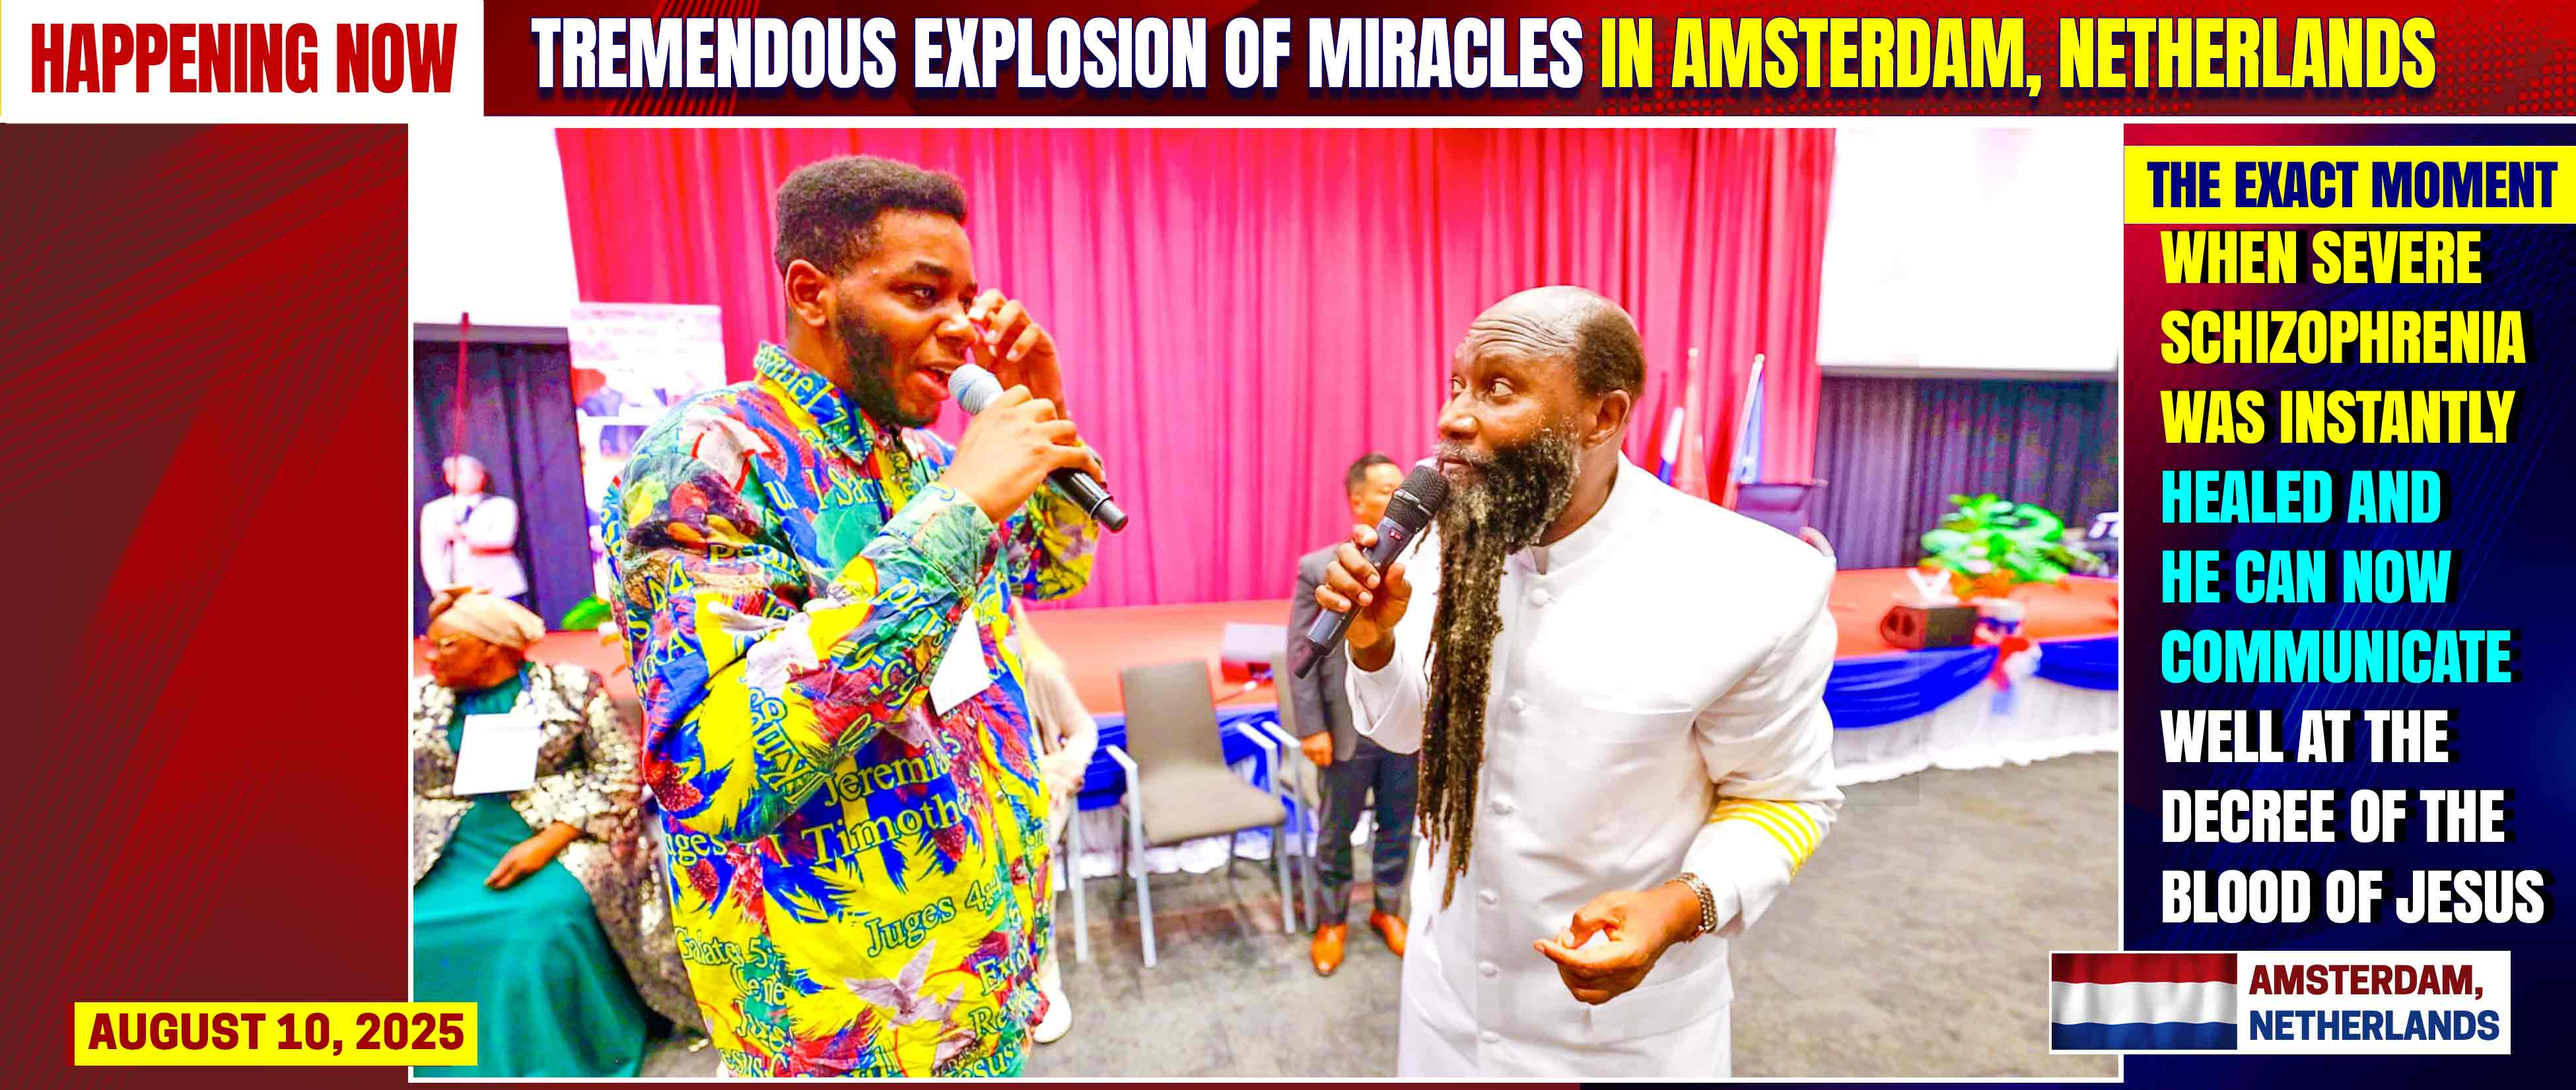
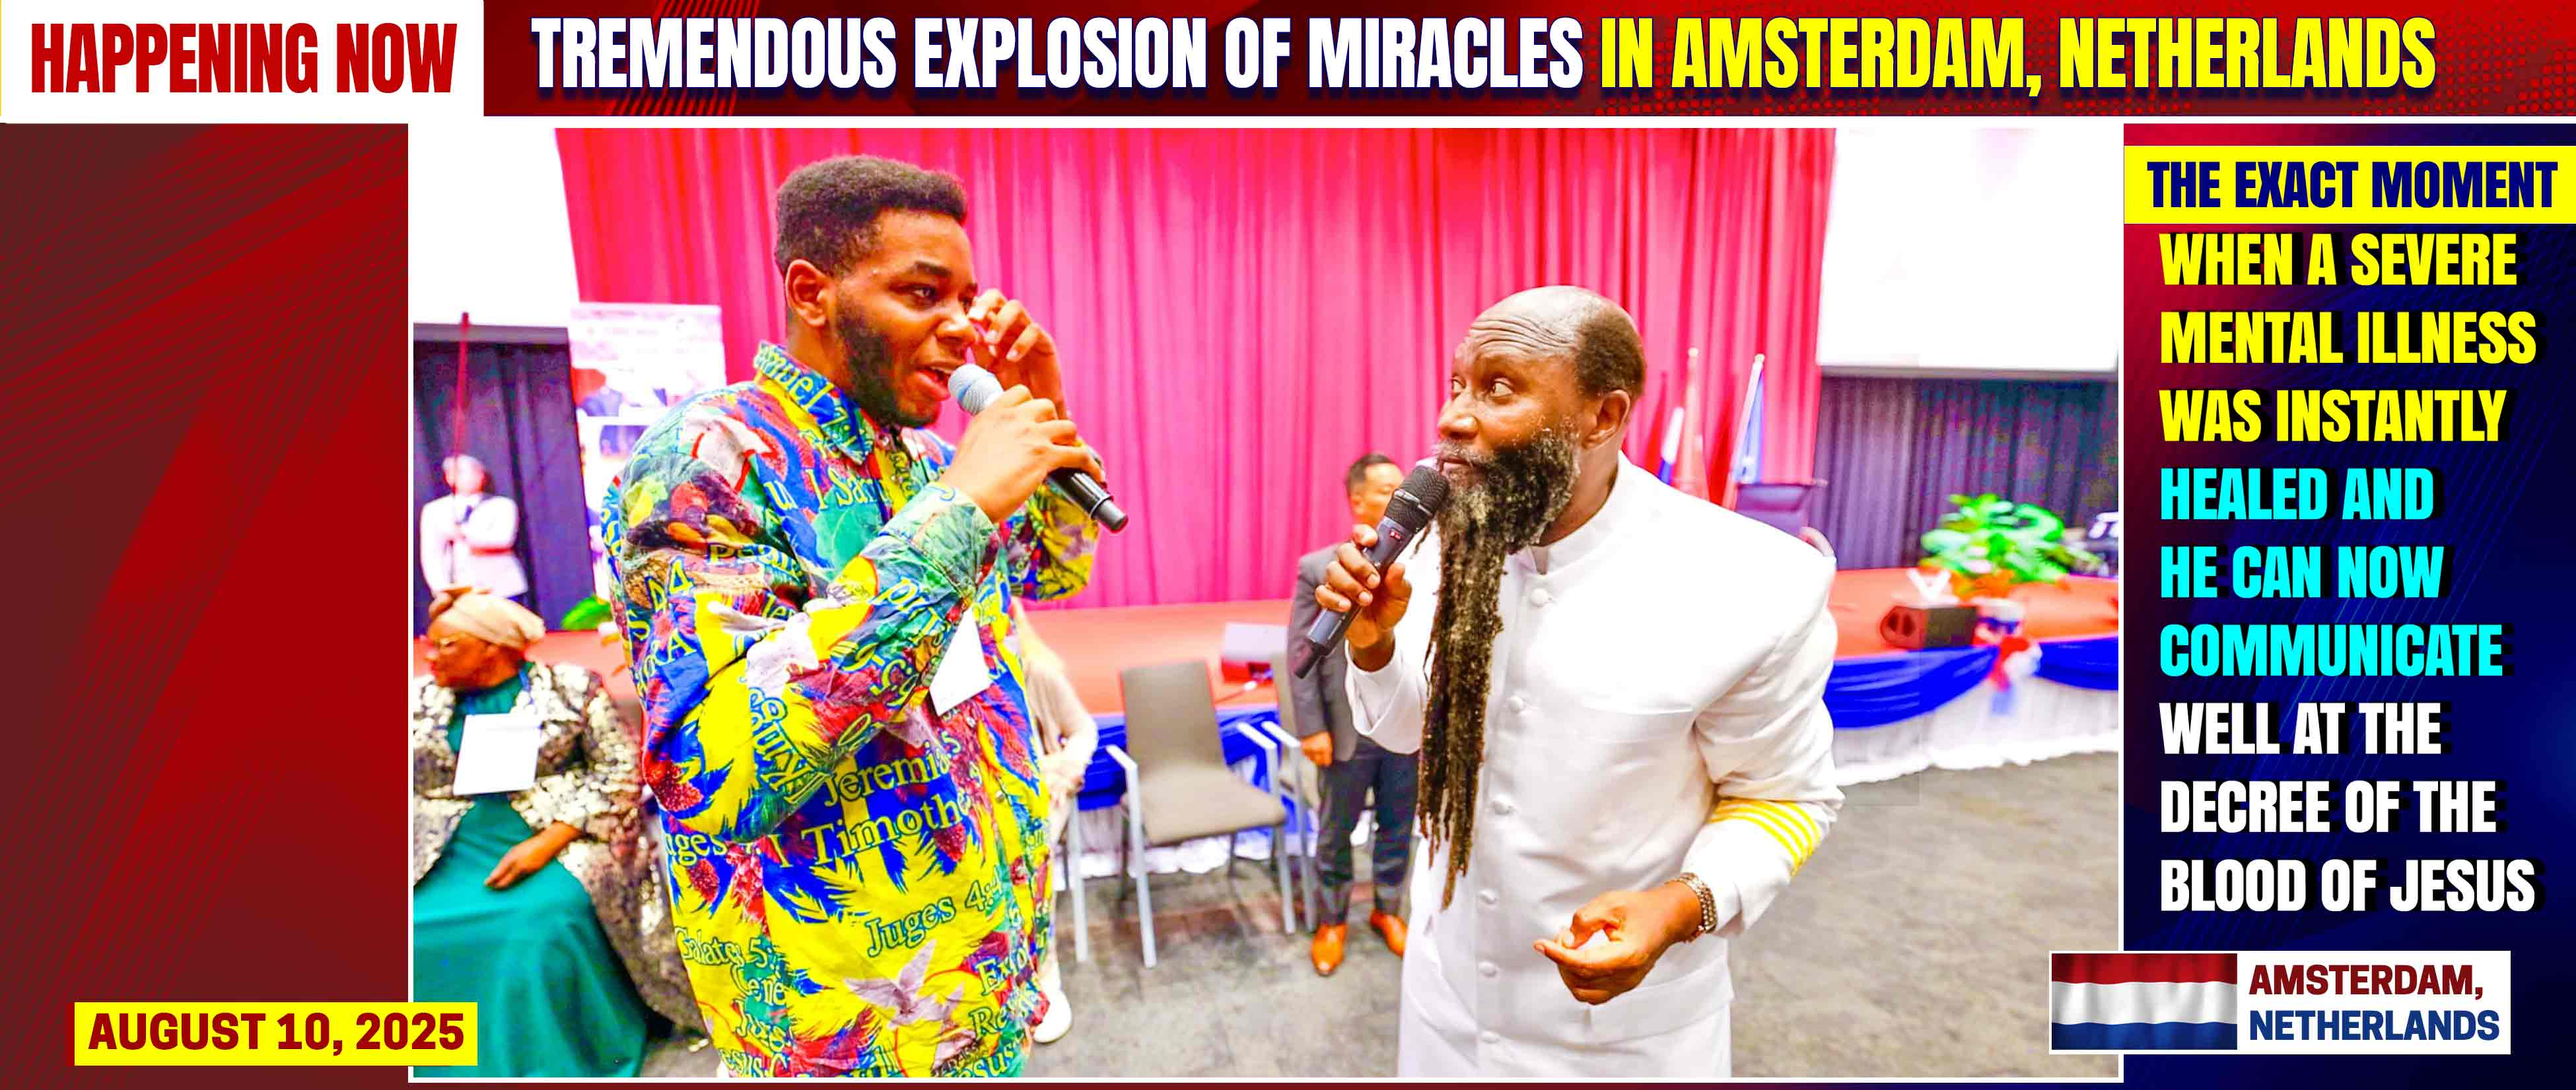
crowds

Changed region(s): [[0.8375, 0.1852, 0.9926, 0.8644], [0.5893, 0.9879, 0.7134, 1.0]]

diff --git a/index.html b/index.html
@@ -32,7 +32,7 @@
         <img class="slideshow" src="https://pub-9f92551086574e82abebdc7b9c83cf92.r2.dev/1.%20Netherlands%20mission/HEALING%20Service%20-%201/deaf-3.jpg" alt="Unstable internet, please refresh the browser">
         <img class="slideshow" src="https://pub-9f92551086574e82abebdc7b9c83cf92.r2.dev/1.%20Netherlands%20mission/HEALING%20Service%20-%201/deaf-4.jpg" alt="Unstable internet, please refresh the browser">
         <img class="slideshow" src="https://pub-9f92551086574e82abebdc7b9c83cf92.r2.dev/1.%20Netherlands%20mission/HEALING%20Service%20-%201/deaf-5.jpg" alt="Unstable internet, please refresh the browser">
-        <img class="slideshow" src="https://pub-9f92551086574e82abebdc7b9c83cf92.r2.dev/1.%20Netherlands%20mission/HEALING%20Service%20-%201/deaf-4.jpg" alt="Unstable internet, please refresh the browser">
+        <img class="slideshow" src="https://pub-9f92551086574e82abebdc7b9c83cf92.r2.dev/1.%20Netherlands%20mission/HEALING%20Service%20-%201/deaf-6.jpg" alt="Unstable internet, please refresh the browser">
 
 
         <!--Imbalance-->
@@ -57,9 +57,10 @@
         <img class="slideshow" src="https://pub-9f92551086574e82abebdc7b9c83cf92.r2.dev/1.%20Netherlands%20mission/HEALING%20Service%20-%201/Demon-Possesed-1.jpg" alt="Unstable internet, please refresh the browser">
         <img class="slideshow" src="https://pub-9f92551086574e82abebdc7b9c83cf92.r2.dev/1.%20Netherlands%20mission/HEALING%20Service%20-%201/Demon-Possesed-2.jpg" alt="Unstable internet, please refresh the browser">
         <img class="slideshow" src="https://pub-9f92551086574e82abebdc7b9c83cf92.r2.dev/1.%20Netherlands%20mission/HEALING%20Service%20-%201/Demon-Possesed-3.jpg" alt="Unstable internet, please refresh the browser">
-        <!--Schizophrenia-->
-        <img class="slideshow" src="https://pub-9f92551086574e82abebdc7b9c83cf92.r2.dev/1.%20Netherlands%20mission/HEALING%20Service%20-%201/SCHIZOPHRENIA.jpg" alt="Unstable internet, please refresh the browser">
         <!--Mental illness-->
+        <img class="slideshow" src="https://pub-9f92551086574e82abebdc7b9c83cf92.r2.dev/1.%20Netherlands%20mission/HEALING%20Service%20-%201/SCHIZOPHRENIA.jpg" alt="Unstable internet, please refresh the browser">
+        <img class="slideshow" src="https://pub-9f92551086574e82abebdc7b9c83cf92.r2.dev/1.%20Netherlands%20mission/HEALING%20Service%20-%201/Mental-1.jpg" alt="Unstable internet, please refresh the browser">
+        <img class="slideshow" src="https://pub-9f92551086574e82abebdc7b9c83cf92.r2.dev/1.%20Netherlands%20mission/HEALING%20Service%20-%201/SCHIZOPHRENIA.jpg" alt="Unstable internet, please refresh the browser">
 
         <!--Severe anxiety-->
 
